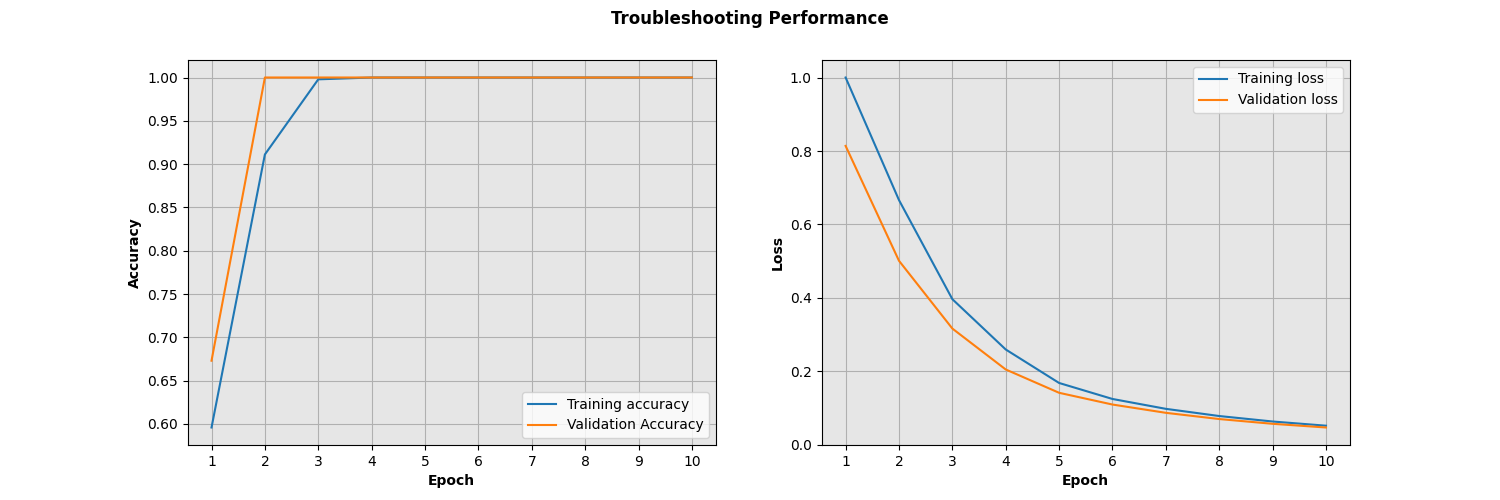
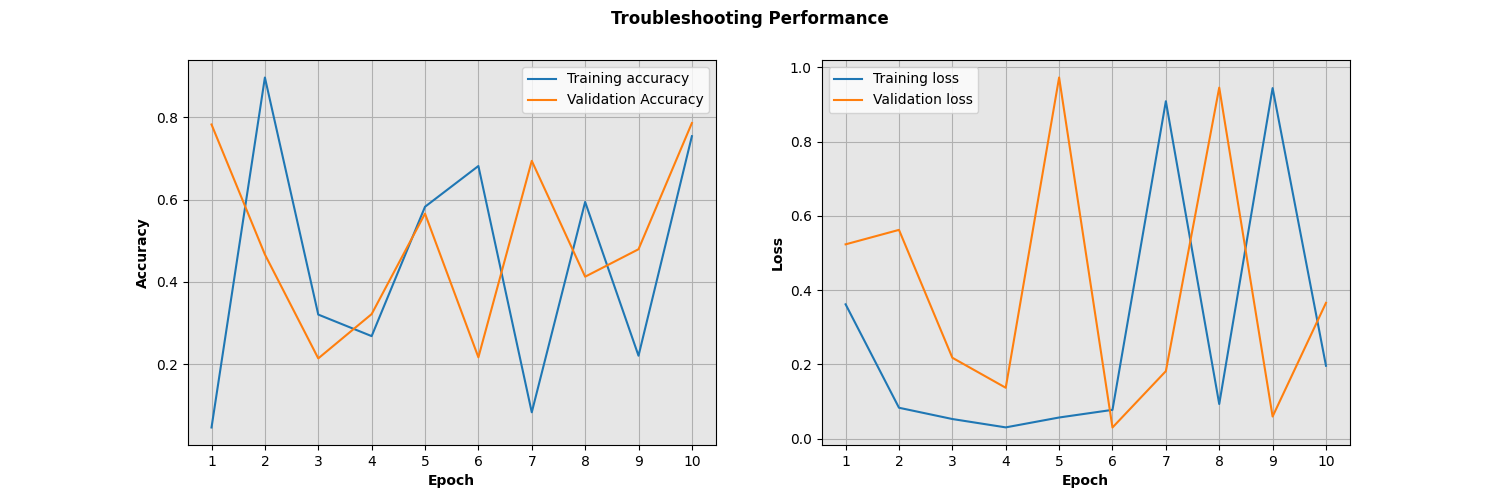
create testing file

diff --git a/custom_plots.py b/custom_plots.py
@@ -39,61 +39,3 @@ class CustomPlot():
         ax[1].grid()
 
         plt.savefig(f'{model_name}.png')
-
-
-# Trouble Shooting
-history = {
-    'loss': [
-        1.0005149841308594,
-        0.6663402318954468,
-        0.39622268080711365,
-        0.25909510254859924,
-        0.1677960753440857,
-        0.12420839816331863,
-        0.09730126708745956,
-        0.07770370692014694,
-        0.06278955936431885,
-        0.051356326788663864
-    ],
-    'accuracy': [  
-        0.5958750247955322,
-        0.9111250042915344,
-        0.9978749752044678,
-        1.0,
-        1.0,
-        1.0,
-        1.0,
-        1.0,
-        1.0,
-        1.0
-    ],
-    'val_loss': [
-        0.8140411972999573,
-        0.5009025931358337,
-        0.316132515668869,
-        0.20457147061824799,
-        0.14102952182292938,
-        0.10901696979999542,
-        0.08643627911806107,
-        0.06949219107627869,
-        0.056521207094192505,
-        0.0464381314814090
-    ],
-    'val_accuracy': [
-        0.6729999780654907,
-        1.0,
-        1.0,
-        1.0,
-        1.0,
-        1.0,
-        1.0,
-        1.0,
-        1.0,
-        1.0
-    ]
-}
-
-CustomPlot.plot_model_performance_accuracy(
-    history=history, 
-    model_name="Troubleshooting"
-)

diff --git a/test.py b/test.py
@@ -1,0 +1,16 @@
+import numpy as np
+
+from custom_plots import CustomPlot
+
+# Trouble Shooting
+history = {
+    'loss': list(np.random.rand(10)),
+    'accuracy': list(np.random.rand(10)),
+    'val_loss': list(np.random.rand(10)),
+    'val_accuracy': list(np.random.rand(10))
+}
+
+CustomPlot.plot_model_performance_accuracy(
+    history=history, 
+    model_name="Troubleshooting"
+)
